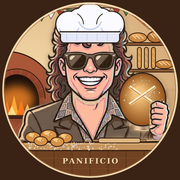
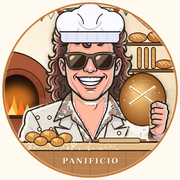
Lichte stijl, leesbare naam en rustiek bakkersicoon met koksbuis
Claude-Session: https://claude.ai/code/session_01SzxQG6kYqwiDNdyQbrdGTq

diff --git a/index.html b/index.html
@@ -3,12 +3,13 @@
 <head>
 <meta charset="UTF-8">
 <meta name="viewport" content="width=device-width, initial-scale=1, viewport-fit=cover">
+<meta name="color-scheme" content="light only">
 <meta name="apple-mobile-web-app-capable" content="yes">
 <meta name="mobile-web-app-capable" content="yes">
 <meta name="apple-mobile-web-app-title" content="Rogier's Bakboek">
 <meta name="application-name" content="Rogier's Bakboek">
-<meta name="apple-mobile-web-app-status-bar-style" content="black-translucent">
-<meta name="theme-color" content="#2a1a0c">
+<meta name="apple-mobile-web-app-status-bar-style" content="default">
+<meta name="theme-color" content="#fffaf0">
 <link rel="apple-touch-icon" href="apple-touch-icon.png">
 <link rel="icon" type="image/png" href="apple-touch-icon.png">
 <title>Rogier's Bakboek</title>
@@ -17,33 +18,18 @@
 <style>
 /* Layout: hero met wisselend baksel, tabs eronder, smalle kolom papieren kaarten. Accentkleur wisselt per recept. */
 :root{
-  --bg:#f5f0e8; --paper:#f2ead8; --paper-edge:#e6dcc8;
-  --ink:#1e1a15; --muted:#6e655b;
+  --bg:#fcf9f3; --paper:#fffdf9; --paper-edge:#efe5d3;
+  --ink:#2a231c; --muted:#7a6f63;
   --green:#4a7a5a; --green-pale:#d0e4d8;
   --a-pizza:#b03a30; --a-bol:#b8732c; --a-zd:#7a5230;
-  --a-pale:#f1dfc6;
-  --warn-bg:#f6e3d6; --warn-fg:#8a3a1c;
-  --hero-ink:#fdf8ef;
+  --a-pale:#fbecd6;
+  --warn-bg:#fbe7dc; --warn-fg:#8a3a1c;
+  --hero-ink:#3a2a1c;
+  color-scheme:light;
   --display:'Cormorant Garamond',Georgia,'Times New Roman',serif;
   --body:'Jost','Helvetica Neue',Arial,sans-serif;
   --accent:var(--a-bol);
 }
-@media (prefers-color-scheme:dark){:root:not([data-theme="light"]){
-  --bg:#1b1814; --paper:#25211b; --paper-edge:#3a332a;
-  --ink:#efe7da; --muted:#a89c8c;
-  --green:#8bbd9b; --green-pale:#2b3a30;
-  --a-pizza:#e88a7f; --a-bol:#e0a564; --a-zd:#d2a679;
-  --a-pale:#3a2c1c;
-  --warn-bg:#3a241a; --warn-fg:#f0b394;
-  color-scheme:dark}}
-:root[data-theme="dark"]{
-  --bg:#1b1814; --paper:#25211b; --paper-edge:#3a332a;
-  --ink:#efe7da; --muted:#a89c8c;
-  --green:#8bbd9b; --green-pale:#2b3a30;
-  --a-pizza:#e88a7f; --a-bol:#e0a564; --a-zd:#d2a679;
-  --a-pale:#3a2c1c;
-  --warn-bg:#3a241a; --warn-fg:#f0b394;
-  color-scheme:dark}
 
 *{box-sizing:border-box}
 body{background:var(--bg);color:var(--ink);font-family:var(--body);font-weight:300;line-height:1.55;font-size:16px}
@@ -52,30 +38,31 @@ body[data-tab="bolletjes"]{--accent:var(--a-bol)}
 body[data-tab="zuurdesem"]{--accent:var(--a-zd)}
 
 /* Hero */
-.hero{position:relative;height:290px;overflow:hidden;background:radial-gradient(ellipse 80% 70% at 50% 35%,#5a3a1c 0%,#2a1a0c 55%,#140c05 100%)}
+.hero{position:relative;height:300px;overflow:hidden;background:radial-gradient(ellipse 70% 60% at 50% 30%,#fffaf0 0%,#fbecd3 55%,#f4dcb6 100%)}
+.hero::before{content:"";position:absolute;left:50%;top:170px;width:300px;height:30px;transform:translateX(-50%);border-radius:50%;background:radial-gradient(ellipse,rgba(140,90,40,.28),transparent 70%)}
 .art{position:absolute;left:50%;top:34px;transform:translateX(-50%)}
 .bun{width:250px;height:165px;border-radius:50% 50% 44% 44%/62% 62% 38% 38%;position:relative;
   background:radial-gradient(ellipse 45% 32% at 38% 28%,#ffe2a6 0%,transparent 70%),radial-gradient(ellipse at 50% 30%,#e7a14c 0%,#c9782b 45%,#8e4d18 100%);
-  box-shadow:0 26px 40px rgba(0,0,0,.55),inset 0 -14px 22px rgba(70,30,5,.45)}
+  box-shadow:0 18px 30px -8px rgba(140,80,30,.35),inset 0 -14px 22px rgba(120,60,15,.3)}
 .seed{position:absolute;width:7px;height:4px;border-radius:50%;background:#f7ecd2}
 .seed.d{background:#2b2420}
 .pz{width:210px;height:210px;border-radius:50%;position:relative;margin-top:-10px;
-  background:radial-gradient(circle at 50% 50%,#b53a2a 0 66%,#d9a05a 69%,#e9be7d 78%,#8e5420 100%);box-shadow:0 22px 40px rgba(0,0,0,.6)}
+  background:radial-gradient(circle at 50% 50%,#b53a2a 0 66%,#d9a05a 69%,#e9be7d 78%,#b07038 100%);box-shadow:0 18px 30px -8px rgba(140,80,30,.35)}
 .pz i{position:absolute;border-radius:45%;background:#f6efe0}
 .pz b{position:absolute;width:20px;height:11px;border-radius:0 80% 0 80%;background:#3f7a3c}
 .loaf{width:270px;height:160px;border-radius:50%/56%;position:relative;
   background:radial-gradient(ellipse 50% 30% at 40% 25%,rgba(255,230,190,.35),transparent 70%),radial-gradient(ellipse at 50% 40%,#b0703a 0%,#7c4a22 60%,#4a2a12 100%);
-  box-shadow:0 26px 40px rgba(0,0,0,.6),inset 0 -12px 20px rgba(30,12,2,.5)}
+  box-shadow:0 18px 30px -8px rgba(140,80,30,.35),inset 0 -12px 20px rgba(60,25,5,.35)}
 .loaf::before{content:"";position:absolute;left:30%;top:22%;width:46%;height:24%;border-radius:50%;border-top:9px solid #e8c48f;transform:rotate(-14deg)}
 .loaf::after{content:"";position:absolute;inset:0;border-radius:inherit;background:radial-gradient(circle at 25% 60%,rgba(255,255,255,.25) 0 2px,transparent 3px) 0 0/22px 18px;opacity:.7}
-.hero-shade{position:absolute;inset:0;background:linear-gradient(to bottom,transparent 45%,rgba(10,6,2,.85) 100%)}
+.hero-shade{position:absolute;inset:0;background:linear-gradient(to bottom,transparent 50%,rgba(252,249,243,.92) 82%,var(--bg) 100%)}
 .hero-text{position:absolute;left:0;right:0;bottom:0;text-align:center;padding-block:0 1.4rem;padding-left:max(16px,env(safe-area-inset-left,0px));padding-right:max(16px,env(safe-area-inset-right,0px));color:var(--hero-ink)}
 .stripes{display:flex;justify-content:center;gap:5px;margin-bottom:.7rem}
 .stripes i{width:4px;height:24px;border-radius:2px}
-.brand{font-family:var(--display);font-style:italic;font-size:1.05rem;letter-spacing:.04em;color:#f0c27e;margin-bottom:.15rem}
+.brand{display:inline-block;font-family:var(--display);font-style:italic;font-weight:600;font-size:1.3rem;letter-spacing:.02em;color:var(--ink);background:var(--paper);border:1px solid var(--paper-edge);border-radius:999px;padding:.15rem 1rem;margin-bottom:.45rem;box-shadow:0 4px 12px -6px rgba(140,80,30,.35)}
 .hero h1{font-family:var(--display);font-weight:400;font-size:2.5rem;line-height:1.05;margin:0}
-.hero h1 em{font-style:italic;color:#f0c27e}
-.hero p{margin:.35rem 0 0;font-size:.8rem;letter-spacing:.14em;text-transform:uppercase;opacity:.8}
+.hero h1 em{font-style:italic;color:var(--accent)}
+.hero p{margin:.35rem 0 0;font-size:.8rem;letter-spacing:.14em;text-transform:uppercase;color:var(--muted)}
 
 /* Tabs */
 .tabs{max-width:620px;margin:-1px auto 0;display:grid;grid-template-columns:repeat(3,1fr);gap:6px;padding-block:1rem 0;padding-left:max(16px,env(safe-area-inset-left,0px));padding-right:max(16px,env(safe-area-inset-right,0px))}
@@ -140,7 +127,7 @@ footer{text-align:center;font-size:.85rem;color:var(--muted);font-style:italic;f
 footer a{color:inherit}
 </style>
 
-<style>html,body{margin:0}html{background:var(--bg)}img{max-width:100%}[hidden]{display:none!important}
+<style>html,body{margin:0}html{background:#fffaf0}img{max-width:100%}[hidden]{display:none!important}
 :root{padding-top:env(safe-area-inset-top,0px);padding-bottom:env(safe-area-inset-bottom,0px)}</style>
 </head>
 <body>
